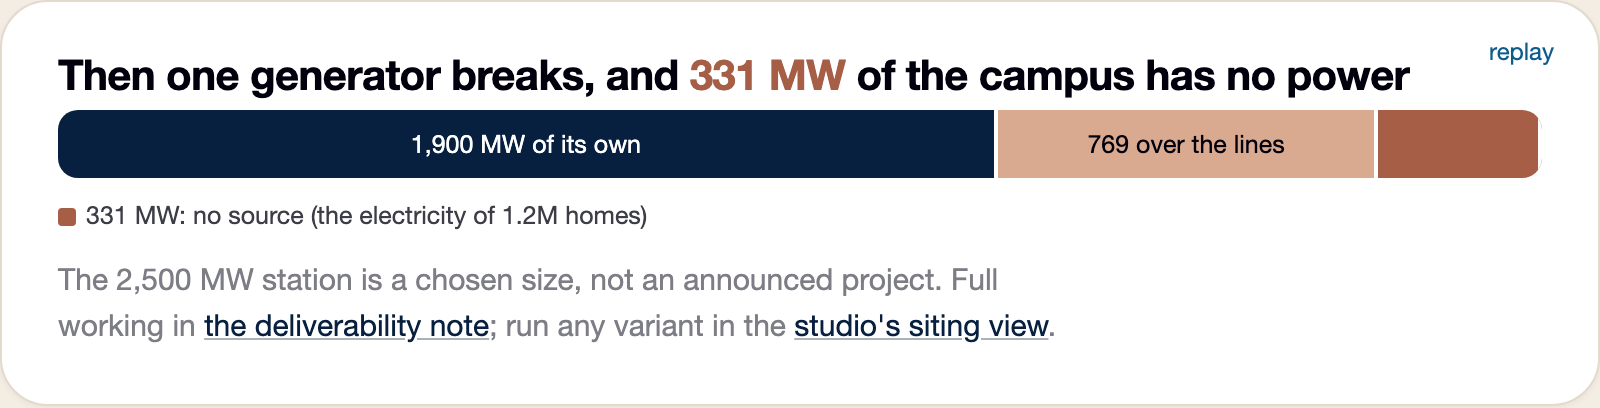
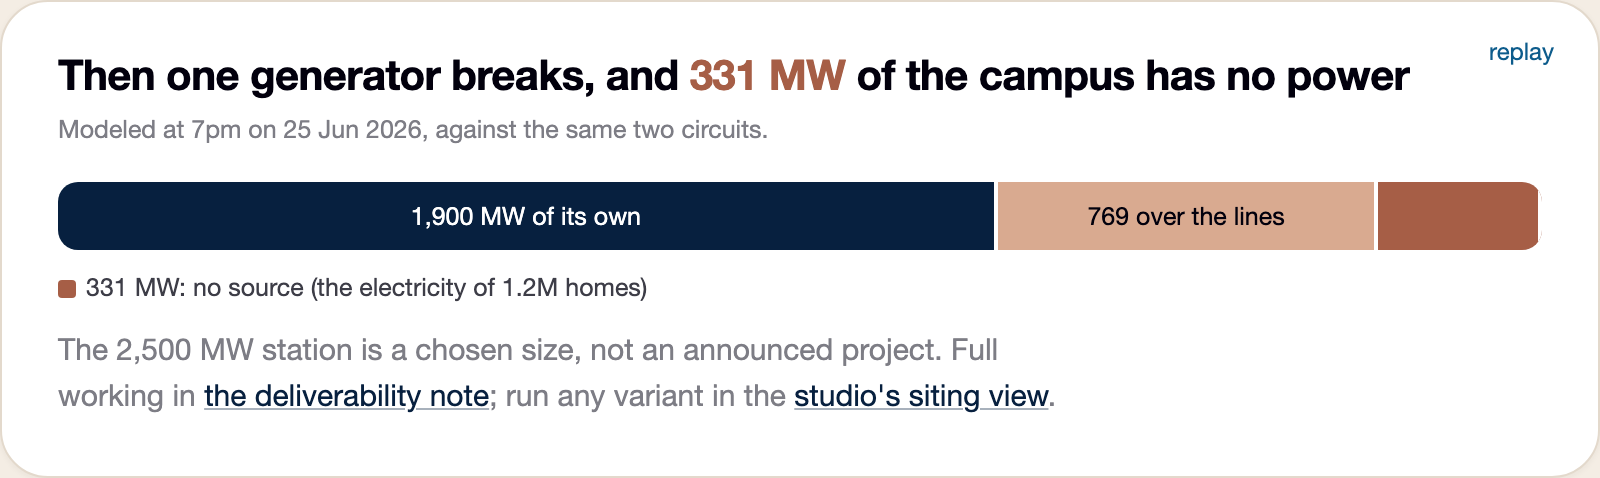
Record the charts as a montage instead of a page scroll
Each card is staged, magnified to fill the frame, and played from empty, so
the clip shows the charts rather than a browser scrolling past them. Adds the
__pxplay hook the recorder drives, moves the panel-area label under its square
where it no longer collides with the signed-farm label, and gives the
own-station card the subtitle every other card has.

diff --git a/web/pax-silica.html b/web/pax-silica.html
@@ -346,6 +346,7 @@ into your backup, and the backup comes down the same two circuits.</p>
 <div class="fig" id="fig-own" style="--accent:#A65E46">
   <button class="replay" data-replay="fig-own">replay</button>
   <div class="figtitle" id="own-caption">The plan works. 2,500 MW of its own, the last 500 over the lines</div>
+  <div class="figsub">Modeled at 7pm on 25 Jun 2026, against the same two circuits.</div>
   <div class="stack" id="own-stack"></div>
   <p class="srcline">The 2,500 MW station is a chosen size, not an announced
   project. Full working in
@@ -610,9 +611,11 @@ not NGCP official geometry. Announced figures may change; this page is dated
     ov.style.cssText += "left:" + (cx - side / 2) + "px; bottom:" + (LH - cy - side / 2)
       + "px; width:" + side + "px; height:" + side + "px;"
       + "background:rgba(166,94,70,.3); border:3px solid #A65E46; border-radius:6px; z-index:3;";
+    // the label is wider than the square it names, so it rides UNDER the
+    // square: at the top it collides with the signed-farm label top-right
     var ol = el("div", "saxis", land);
-    ol.style.cssText = "position:absolute; z-index:4; left:" + (cx - side / 2 + 8)
-      + "px; top:" + (cy - side / 2 + 6) + "px; font-size:12.5px; font-weight:600;"
+    ol.style.cssText = "position:absolute; z-index:4; left:" + (cx - side / 2)
+      + "px; top:" + (cy + side / 2 + 6) + "px; font-size:12.5px; font-weight:600;"
       + "color:#A65E46; background:rgba(255,255,255,.92); border-radius:4px; padding:2px 7px;";
     ol.textContent = "the panels a sun-only campus needs, " + P.sun.sun_alone_km2 + " km²";
     // the one signed farm at the same true scale, for contrast
@@ -987,6 +990,26 @@ not NGCP official geometry. Announced figures may change; this page is dated
       });
     });
   }
+
+  // rebuild one card at its current width and play its animation from zero.
+  // The montage recorder moves a card into a centered stage, which changes its
+  // width, and every chart sizes its marks in pixels at build time, so a
+  // replay has to rebuild before it runs.
+  var builders = { "fig-grids": buildGrids, "fig-acwa": buildSun, "fig-land": buildSun,
+                   "fig-wires": buildWires, "fig-record": buildRecord,
+                   "fig-priceb": buildPrice, "fig-own": buildOwn, "fig-water": buildWater };
+  window.__pxplay = function(id){
+    var fig = document.getElementById(id);
+    if (!fig) return false;
+    if (builders[id]) builders[id]();
+    fig.classList.remove("on");
+    delete fig.dataset.done;
+    void fig.offsetWidth;                       // flush, so the transition restarts
+    fig.classList.add("on");
+    if (id === "fig-acwa"){ runCells(); return true; }
+    if (runners[id]) runners[id](fig);
+    return true;
+  };
 
   fetch("data/perspective.json").then(function(r){ return r.json(); })
     .then(function(d){

diff --git a/build/record_pax_silica_scale.py b/build/record_pax_silica_scale.py
@@ -1,59 +1,180 @@
 #!/usr/bin/env python3
-"""Record a real scroll-through of web/pax-silica.html.
+"""Record the Pax Silica charts as a montage: one animated chart per beat.
+
+Not a page scroll. Each figure card is moved onto a centered stage, rebuilt at
+that width, played from zero, held while it finishes, then cut to the next one.
+A title card opens the clip, because a feed renders frame one as the thumbnail.
+
+Everything on screen is the live page reading the baked numbers, so the montage
+cannot show a figure the site does not.
 
 Needs `make serve` running (web/serve.py on :8789, per the Makefile, or set
-BASE). Scrolls the live page, letting each beat's IntersectionObserver-triggered
-animation play, and captures a real video (no mockup, no stitched screenshots,
-per project convention). Outputs a .webm under /tmp; convert to mp4/gif after.
+BASE). Writes docs/pax-silica-scale.mp4 and .gif via the ffmpeg recipe below.
 
     make serve &
     python3 build/record_pax_silica_scale.py
 """
 import asyncio
 import os
+import subprocess
 
 from playwright.async_api import async_playwright
 
 BASE = os.environ.get("BASE", "http://localhost:8789")
 ROOT = os.path.dirname(os.path.dirname(os.path.abspath(__file__)))
-OUT_DIR = "/tmp/pax_scale_rec"
-os.makedirs(OUT_DIR, exist_ok=True)
-W, H = 1280, 800
+DOCS = os.path.join(ROOT, "docs")
+REC = "/tmp/pax_montage"
+W, H = 1280, 880
+CARD_W = 940          # every card fits at this width (tallest is the map, ~700)
+MAG = 1.36            # ceiling on the magnify-to-fill-the-frame scale
+
+# (figure id, seconds to hold once it starts playing). The own-station card
+# flips to its broken-generator state at 2.6s, so it needs the longest hold.
+BEATS = [
+    ("fig-grids", 3.4),
+    ("fig-acwa", 3.0),
+    ("fig-land", 3.6),
+    ("fig-wires", 3.2),
+    ("fig-record", 2.6),
+    ("fig-priceb", 3.4),
+    ("fig-own", 5.4),
+    ("fig-water", 3.6),
+]
+
+STAGE = r"""
+() => {
+  const bg = getComputedStyle(document.body).backgroundColor;
+  const s = document.createElement('div');
+  s.id = 'mstage';
+  s.style.cssText = 'position:fixed; inset:0; z-index:99999; background:' + bg +
+    '; display:flex; align-items:center; justify-content:center; overflow:hidden;';
+  document.body.appendChild(s);
+  const inner = document.createElement('div');
+  inner.id = 'minner';
+  s.appendChild(inner);
+  const css = document.createElement('style');
+  css.textContent = '#mstage .replay{display:none !important;}' +
+    '#minner .fig{margin:0 !important;}';
+  document.head.appendChild(css);
+  // a staged card is put back where it came from before the next one is
+  // staged: the solar builder writes into two cards at once, so every card
+  // has to stay in the document even while another one is on stage
+  let held = null, home = null;
+  const restore = () => {
+    if (held && home) home.parent.insertBefore(held, home.next);
+    held = null; home = null;
+    inner.innerHTML = '';
+  };
+  window.__m = {
+    title(html){
+      restore();
+      inner.style.transform = 'none';
+      inner.style.width = '900px';
+      inner.innerHTML = html;
+    },
+    card(id, w){
+      const fig = document.getElementById(id);
+      if (!fig) return null;
+      restore();
+      home = { parent: fig.parentNode, next: fig.nextSibling };
+      held = fig;
+      inner.style.transform = 'none';
+      inner.style.width = w + 'px';
+      inner.appendChild(fig);
+      return true;
+    },
+    // magnify the staged card until it fills the frame. The transform is set
+    // BEFORE the animation runs, so the compositor rasterizes the text at its
+    // final size instead of scaling up a 1x bitmap.
+    fit(cap){
+      const pad = 40;
+      inner.style.transform = 'none';
+      const r = inner.getBoundingClientRect();
+      const k = Math.min(cap, (window.innerHeight - pad) / r.height,
+                              (window.innerWidth - pad) / r.width);
+      inner.style.transform = 'scale(' + k.toFixed(4) + ')';
+      return k;
+    },
+  };
+}
+"""
+
+TITLE = """
+<div style="font-family:'Helvetica Neue',Helvetica,Arial,sans-serif">
+  <div style="font-size:13px; letter-spacing:.14em; text-transform:uppercase;
+    color:#7d7d85; margin-bottom:14px">Pax Silica, New Clark City, Tarlac</div>
+  <div style="font-size:44px; font-weight:700; line-height:1.18;
+    letter-spacing:-.02em; color:#02000D">BCDA says the campus needs
+    <span style="color:#A65E46">3,000 MW</span> and
+    <span style="color:#A65E46">90 million liters</span> of water a day.</div>
+  <div style="font-size:20px; color:#3d3d47; margin-top:18px">Eight charts, drawn
+    against things you already know.</div>
+</div>
+"""
 
 
 async def main():
+    os.makedirs(REC, exist_ok=True)
+    for f in os.listdir(REC):
+        if f.endswith(".webm"):
+            os.remove(os.path.join(REC, f))
+
     async with async_playwright() as pw:
         browser = await pw.chromium.launch()
         ctx = await browser.new_context(
             viewport={"width": W, "height": H},
-            record_video_dir=OUT_DIR,
+            record_video_dir=REC,
             record_video_size={"width": W, "height": H},
         )
         page = await ctx.new_page()
         await page.goto(BASE + "/pax-silica.html")
         await page.wait_for_function("window.__pxdiag && window.__pxdiag.ready")
-        await asyncio.sleep(1.0)
+        await page.evaluate(STAGE)
 
-        total = await page.evaluate("document.body.scrollHeight")
-        beats = ["b-power", "b-sun", "b-wires", "b-priceb", "b-own", "b-water", "b-close"]
-        for bid in beats:
-            await page.evaluate(
-                "(id) => document.getElementById(id)"
-                ".scrollIntoView({behavior:'smooth', block:'start'})",
-                bid,
-            )
-            # smooth-scroll settle, then let the beat's animation play out
-            await asyncio.sleep(1.1)
-            await asyncio.sleep(3.4 if bid == "b-own" else 2.2)
-        await page.evaluate(
-            "window.scrollTo({top: document.body.scrollHeight, behavior:'smooth'})"
-        )
-        await asyncio.sleep(1.4)
+        await page.evaluate("(h) => window.__m.title(h)", TITLE)
+        await page.evaluate("(c) => window.__m.fit(c)", MAG)
+        await asyncio.sleep(2.4)
 
+        for fid, hold in BEATS:
+            ok = await page.evaluate(
+                "([id, w]) => window.__m.card(id, w)", [fid, CARD_W])
+            if not ok:
+                print("missing card:", fid)
+                continue
+            # build once to settle the card's real height at this width, size
+            # the magnification to that, then replay so the animation runs
+            # inside the already-scaled layer
+            await page.evaluate("(id) => window.__pxplay(id)", fid)
+            if fid == "fig-land":                 # basemap tiles are network
+                await page.wait_for_function(
+                    "[...document.querySelectorAll('#land-map img')]"
+                    ".every(i => i.complete)", timeout=15000)
+            k = await page.evaluate("(c) => window.__m.fit(c)", MAG)
+            await page.evaluate("(id) => window.__pxplay(id)", fid)
+            print(f"{fid}: scale {k:.2f}, hold {hold}s")
+            await asyncio.sleep(hold)
+
+        await asyncio.sleep(0.6)
         await ctx.close()
         await browser.close()
-    files = [f for f in os.listdir(OUT_DIR) if f.endswith(".webm")]
-    print("recorded", files, "in", OUT_DIR)
+
+    webm = next(f for f in os.listdir(REC) if f.endswith(".webm"))
+    src = os.path.join(REC, webm)
+    mp4 = os.path.join(DOCS, "pax-silica-scale.mp4")
+    gif = os.path.join(DOCS, "pax-silica-scale.gif")
+    pal = "/tmp/pax_montage_pal.png"
+    run = lambda a: subprocess.run(a, check=True, stdout=subprocess.DEVNULL,
+                                   stderr=subprocess.DEVNULL)
+    run(["ffmpeg", "-y", "-i", src, "-vf", "format=yuv420p",
+         "-c:v", "libx264", "-preset", "slow", "-crf", "18",
+         "-tune", "stillimage", mp4])
+    vf = "fps=10,scale=960:-1:flags=lanczos"
+    run(["ffmpeg", "-y", "-i", src, "-vf", vf + ",palettegen=stats_mode=diff",
+         "-update", "1", "-frames:v", "1", pal])
+    run(["ffmpeg", "-y", "-i", src, "-i", pal, "-lavfi",
+         vf + "[x];[x][1:v]paletteuse=dither=bayer:bayer_scale=3", gif])
+    for p in (mp4, gif):
+        print("wrote", p, f"({os.path.getsize(p) // 1024} KB)")
 
 
 if __name__ == "__main__":

diff --git a/README.md b/README.md
@@ -331,7 +331,7 @@ and [`web/data/generators.geojson`](web/data/generators.geojson); the engine is
 
 ### Pax Silica needs more power than the whole Visayas grid and up to twice as much water as everyone in Makati
 
-[![A scroll through the page: the whole grid tiled as one rectangle with a dashed campus square covering all of the Visayas piece; the solar day as 24 nearly-empty hour columns; land areas nested at true scale; a river of power hitting a dam with only two thin circuit ribbons through; the merit-order ladder where adding the campus moves the price-setter from coal to oil; the own-station plan losing 331 MW when one unit trips; water as countable drops against Makati and Angat; and the closing ledger of what BCDA announced against what this page worked out](docs/pax-silica-scale.gif)](web/pax-silica.html)
+[![A montage of the eight charts, each animating in turn: the whole grid tiled as one rectangle with a dashed campus square covering all of the Visayas piece; the solar day as 24 nearly-empty hour columns; the 122 km2 of panels laid over a real Metro Manila map; a tank the two circuits fill only a quarter of; the announce-to-energize record of the last two big grid builds; the merit-order ladder where adding the campus moves the price-setter from coal to oil; the own-station plan losing 331 MW when one generator trips; and the water drawn as countable drops against Makati and Angat](docs/pax-silica-scale.gif)](web/pax-silica.html)
 
 BCDA's own figures for the campus at New Clark City: **3,000 MW** of power at full
 development and **65 to 90 million liters** of water a day. Numbers that size mean

diff --git a/docs/pax-silica-visuals.md b/docs/pax-silica-visuals.md
@@ -4,14 +4,20 @@ The live page is `web/pax-silica.html`. Below, first the moving version, then
 every chart on the page, each with what it shows, where its numbers came
 from, and the one thing worth double-checking.
 
-## The whole page in 27 seconds
+## All eight charts animating, in 31 seconds
 
-![A screen recording scrolling through the whole page, each chart animating as it arrives](pax-silica-scale.gif)
+![A montage. A title card first, then each chart in turn, animating from empty and holding while it finishes, with a hard cut to the next](pax-silica-scale.gif)
 
-This is a real screen recording of the page, top to bottom. Nothing is
-staged or drawn separately. The smoother file to share is
-`docs/pax-silica-scale.mp4`. If the page changes, re-make it with
-`make serve` then `python3 build/record_pax_silica_scale.py`.
+A montage rather than a page scroll. It opens on a title card, because a feed
+renders frame one as the thumbnail, then gives each chart its own beat. The
+recorder drives the live page. It lifts one card onto a centered stage,
+magnifies it to fill the frame, rebuilds it at that size, plays it from
+empty, holds while it finishes, then cuts to the next. The own-station card
+gets the longest beat because it flips to its broken-generator state partway
+through. Nothing is drawn separately, so the clip cannot show a figure the
+site does not. The smoother file to share is `docs/pax-silica-scale.mp4`. To
+re-make it after a page change, run `make serve`, then
+`python3 build/record_pax_silica_scale.py`.
 
 ## This one campus would use more power than the entire Visayas
 
